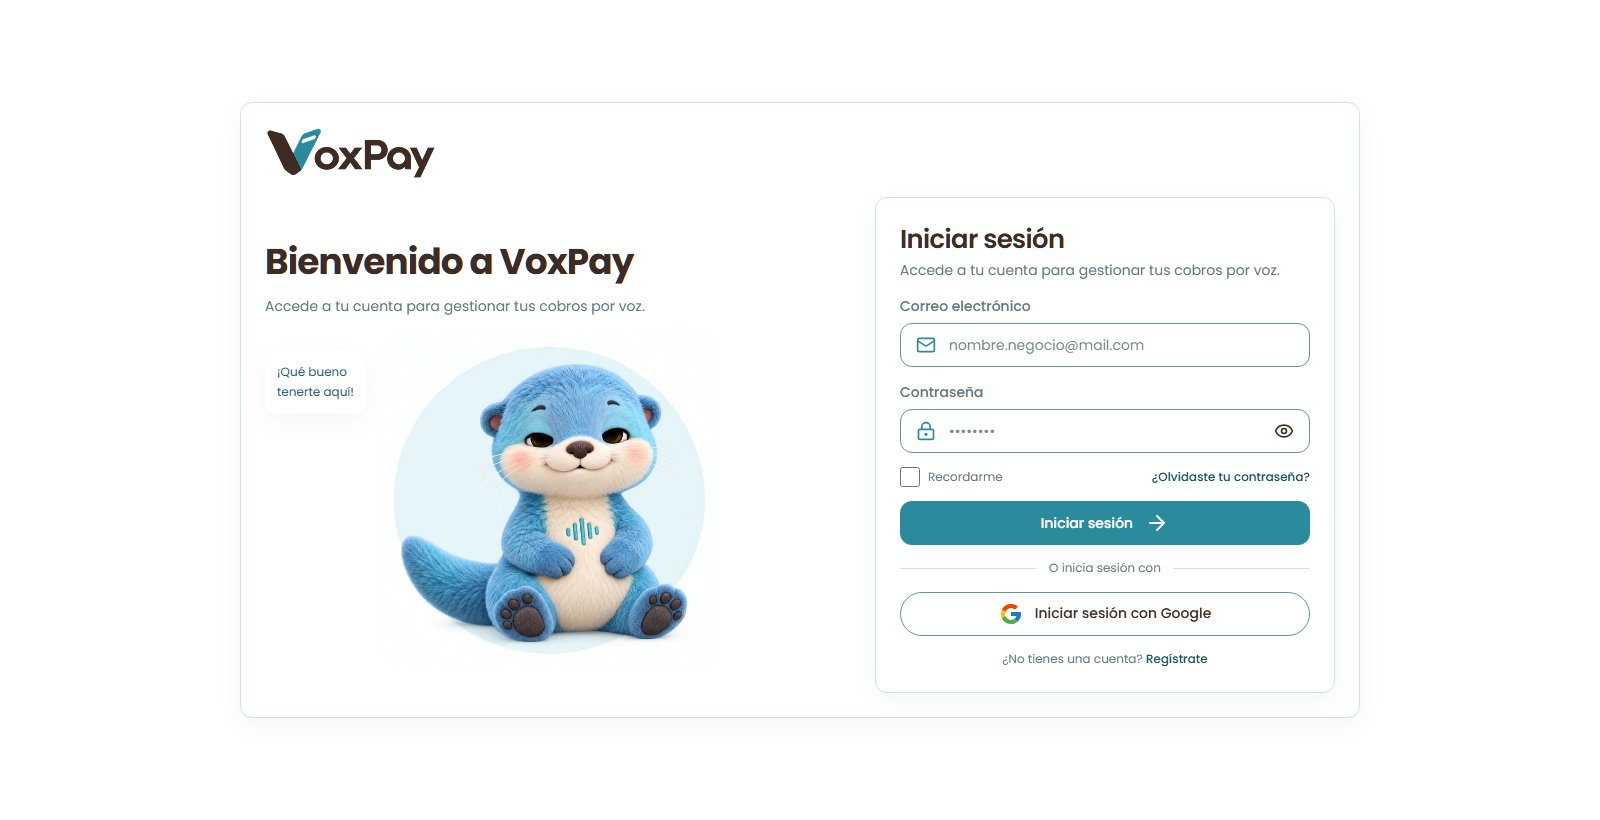
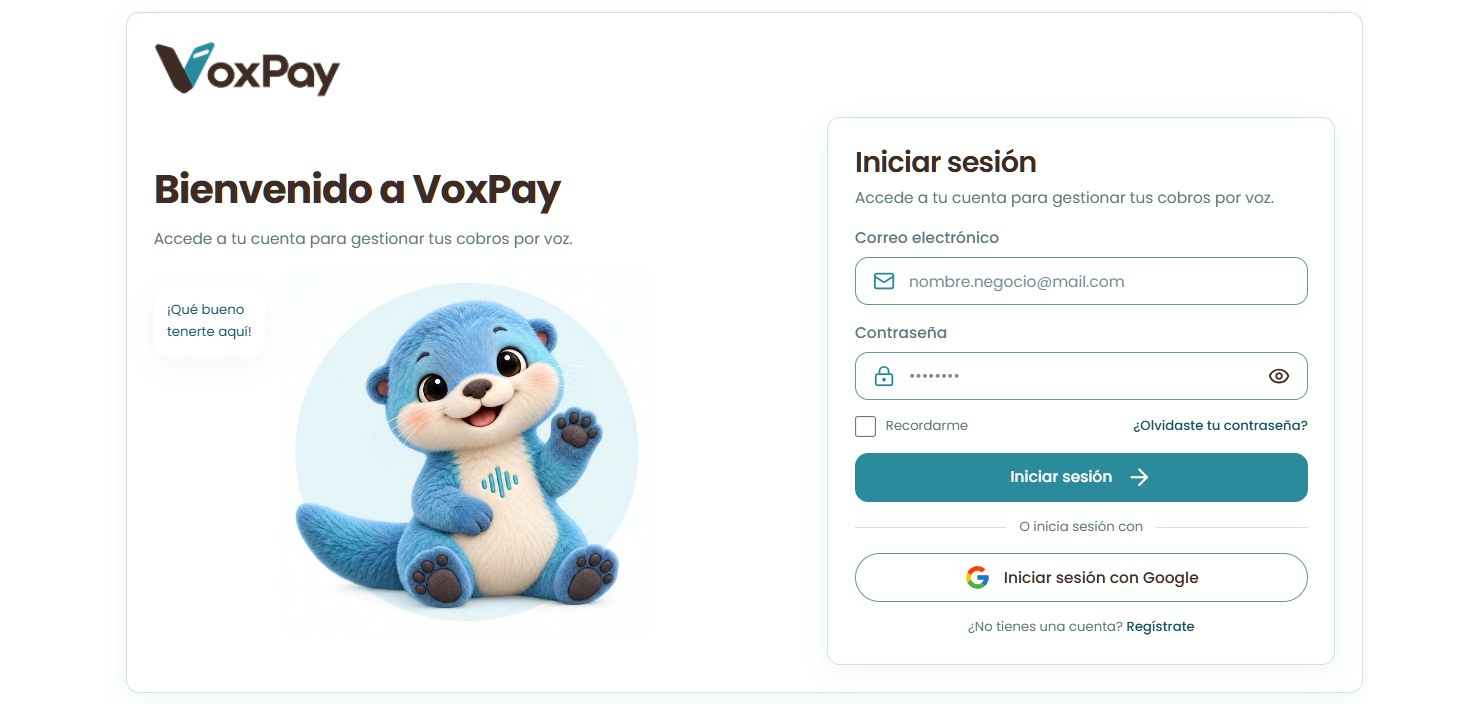
imagenes adicionales de voxpay

diff --git a/src/data/site.ts b/src/data/site.ts
@@ -1,6 +1,8 @@
 import sonrisappDashboard from '../assets/projects/sonrisapp/dashboard.jpeg'
 import sonrisappInventario from '../assets/projects/sonrisapp/inventario.jpeg'
 import sonrisappOdontograma from '../assets/projects/sonrisapp/odontograma.jpeg'
+import voxpayCobro from '../assets/projects/voxpay/cobro.jpeg'
+import voxpayDashboard from '../assets/projects/voxpay/dashboard.jpeg'
 import voxpayLogin from '../assets/projects/voxpay/login.jpeg'
 import invictoDashboard from '../assets/projects/invicto/dashboard.jpeg'
 import invictoLogin from '../assets/projects/invicto/login.jpeg'
@@ -154,7 +156,9 @@ export const projects: Project[] = [
     repo: 'https://github.com/Rondnt/VoxPay-Stellar',
     live: 'https://voxpay--voxpay-gj.us-central1.hosted.app',
     images: [
-      { src: voxpayLogin, alt: 'Pantalla de inicio de VoxPay' },
+      { src: voxpayLogin, alt: 'Pantalla de inicio de sesión de VoxPay' },
+      { src: voxpayCobro, alt: 'Nuevo cobro por voz en VoxPay con la mascota Voxi' },
+      { src: voxpayDashboard, alt: 'Dashboard de VoxPay con los cobros del día en USDC' },
     ],
     featured: true,
   },
